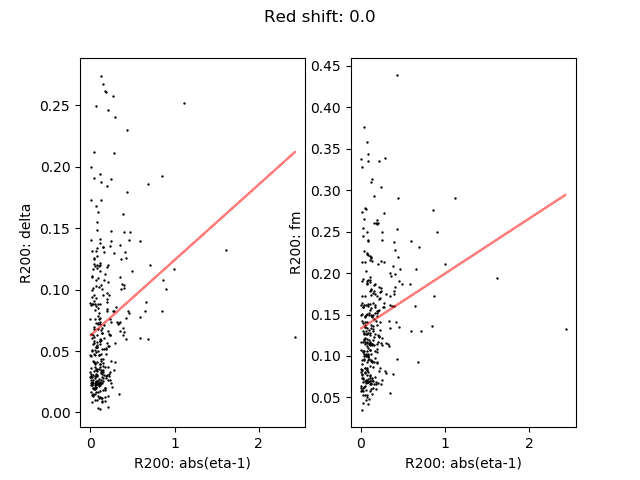
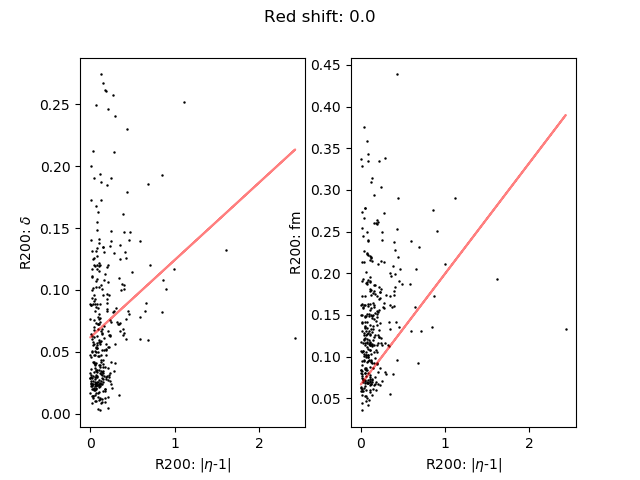
edited the plotting function to use more accurate polyfit method

diff --git a/simulation.py b/simulation.py
@@ -95,12 +95,12 @@ def make_plots(input_snap):
     x = np.abs(input_snap.data[:,3] - 1)
     for i in range(0, 2):
         #: np arrays: polyfitted y values for creating straight line
-        y, m = np.polynomial.polynomial.polyfit(x, input_snap.data[:,4+i], 1)
-        axs[i].scatter(x, input_snap.data[:,4+i],c='black',s=0.5)
-        axs[i].plot(x, y + m * x, c='red', alpha=0.5)
-        axs[i].set(xlabel='R200: abs(eta-1)')
+        y = np.poly1d(np.polynomial.polynomial.polyfit(x, input_snap.data[:,4+i], 1))
+        axs[i].plot(x, input_snap.data[:,4+i],'o', color='black', markersize=0.75)
+        axs[i].plot(x, y(x), c='red', alpha=0.5)
+        axs[i].set(xlabel='R200: |$\eta$-1|')
         if i == 0:
-            axs[i].set(ylabel='R200: delta')
+            axs[i].set(ylabel='R200: $\delta$')
         elif i == 1:
             axs[i].set(ylabel='R200: fm')
     fig.savefig('plots/abs(eta-1)_'+ str(input_snap.r_shift) + '_plot.png')
